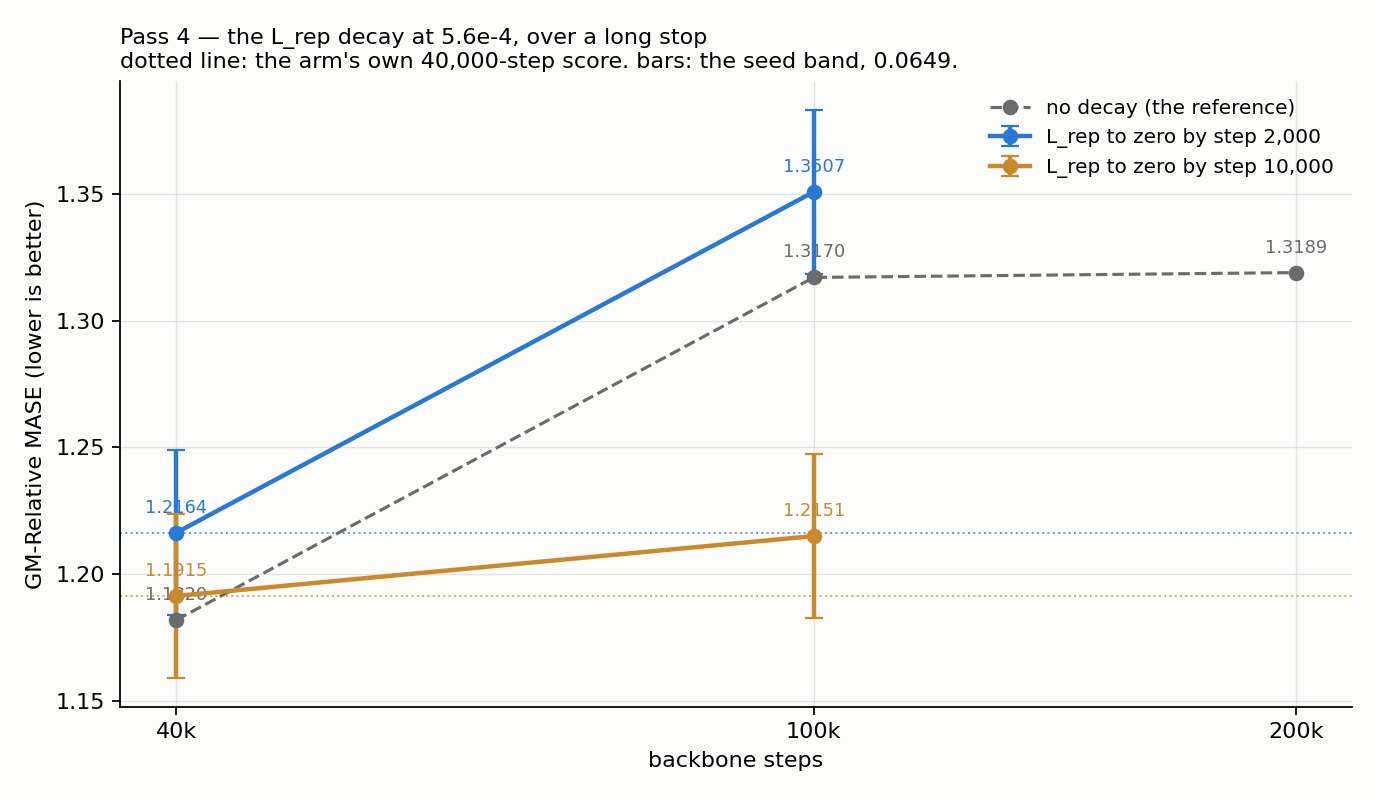
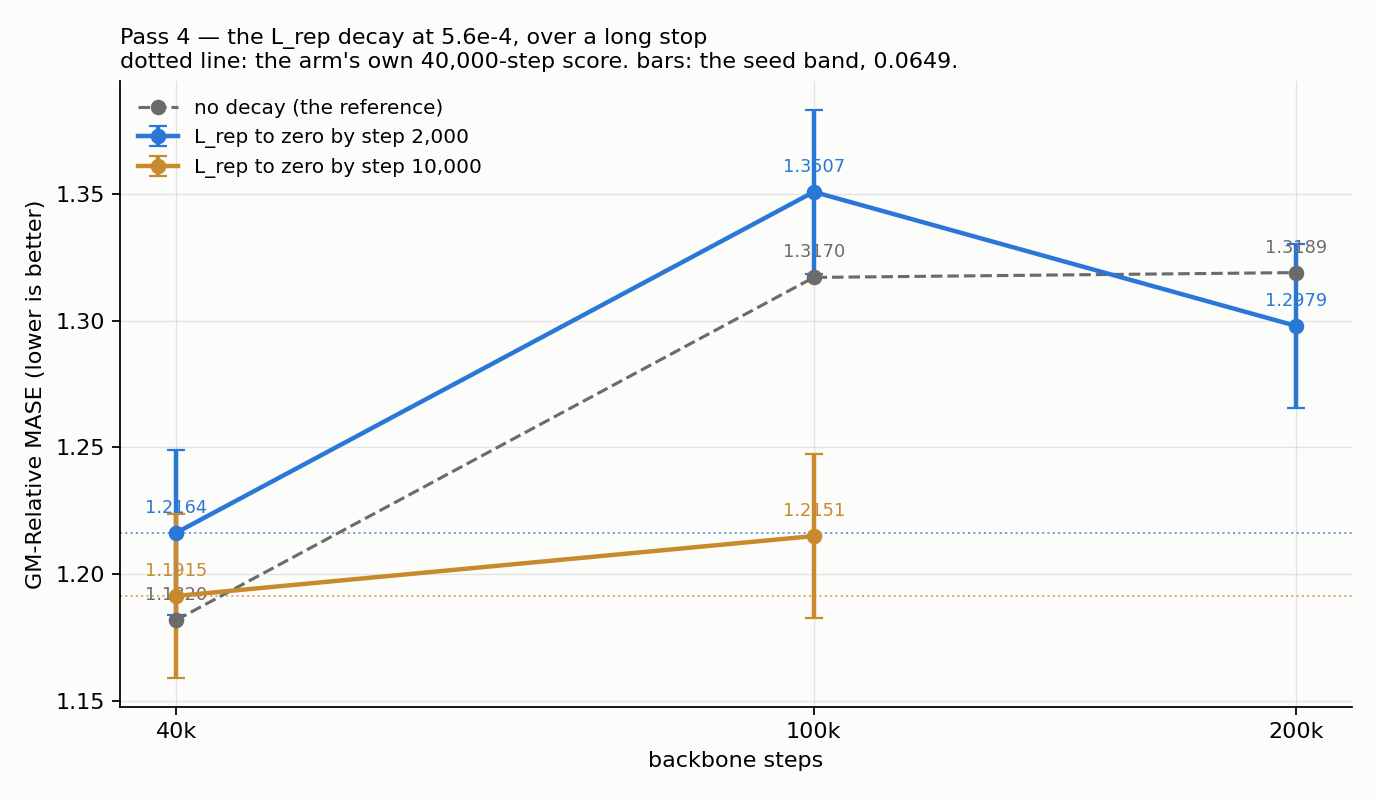
report(#412): pass 4 complete — no arm beats its own 40,000-step stop
arm                      decay   ema ramp      40k     100k     200k
    k3_r100_09_lr56              -    100,000   1.1820   1.3170   1.3189
    k3_r100_09_lr56_dec      2,000    100,000   1.2164   1.3507   1.2979
    k3_r100_09_lr56_dec10k  10,000     40,000   1.1915   1.2151        -

That is the card's question and the answer is no at every stop. But
`dec10k` HOLDS: +0.0236 against its own 40,000-step score, 0.36 of the
0.0649 band, where every other arm loses one to two bands. It also beats
the no-decay reference at 100,000 steps by 1.57 bands.

The decay is not the cause. `dec` and its no-decay twin differ in that
column alone and rise +0.1343 against +0.1350.

The EMA ramp is the candidate and not a finding: `dec10k` moves two
columns. The single-axis momentum arms run on a rented A100.

The AUC held above 0.99 at every stop and the guard stopped nothing.

diff --git a/reports/2026-09-06_moirai_small_size/EXECUTION_LOG.md b/reports/2026-09-06_moirai_small_size/EXECUTION_LOG.md
@@ -1344,3 +1344,40 @@ grown their pools by 4,016, 3,716 and 3,996 MiB, against the 4,424 GiB
 allocation named in the traceback. So the growth is consistently a few hundred
 MiB UNDER the requested allocation, because part of it is served from blocks
 the pool already holds.
+
+### Pass 4, complete: five stops, five scores
+
+    arm                      decay   ema ramp      40k     100k     200k
+    k3_r100_09_lr56              -    100,000   1.1820   1.3170   1.3189
+    k3_r100_09_lr56_dec      2,000    100,000   1.2164   1.3507   1.2979
+    k3_r100_09_lr56_dec10k  10,000     40,000   1.1915   1.2151        -
+
+NO ARM BEATS ITS OWN 40,000-STEP STOP. That was the card's question and the
+answer is no, at every stop, for both arms:
+
+    dec     100,000 against its 40,000   +0.1343   +2.07 bands
+    dec     200,000 against its 40,000   +0.0815   +1.26 bands
+    dec10k  100,000 against its 40,000   +0.0236   +0.36 bands
+
+ONE ARM HOLDS, WHICH IS NEW. `dec10k` lands 0.36 of a band above its own
+40,000-step score, so the two stops are not separated. Every other arm of this
+card loses one to two bands. It also beats the no-decay reference at the
+100,000-step stop by 1.57 bands.
+
+THE DECAY IS NOT WHAT DOES IT. `dec` and its no-decay twin differ in the decay
+column ALONE, and their rises to 100,000 steps are +0.1343 and +0.1350. The
+`L_rep` term can be removed entirely by step 2,000 and the curve does not move.
+
+`dec` AT 200,000 STEPS RECOVERS PART OF ITS DIP, 1.3507 to 1.2979. Its
+no-decay twin does not, 1.3170 to 1.3189. Both 200,000-step scores sit inside
+the band of each other, so this card does not rank them.
+
+THE GUARD STOPPED NOTHING. The AUC held above 0.99 at every stop of both arms.
+
+WHAT IS LEFT OPEN. `dec10k` moves TWO columns against `dec`, the decay ramp
+and the EMA ramp. The decay is excluded above, which leaves the EMA ramp as
+the candidate: `dec10k` completes its ramp at 40,000 steps, inside its own
+stop, while the other two reach momentum 1.0 only at 100,000. Another session
+runs `k3_r100_09_lr56_fix09` and `k3_r100_09_lr56_fix09_dec10k` on a rented
+A100 to move the momentum alone, each to 100,000 steps with a 40,000-step
+save, so each gives both stops from one leg.
